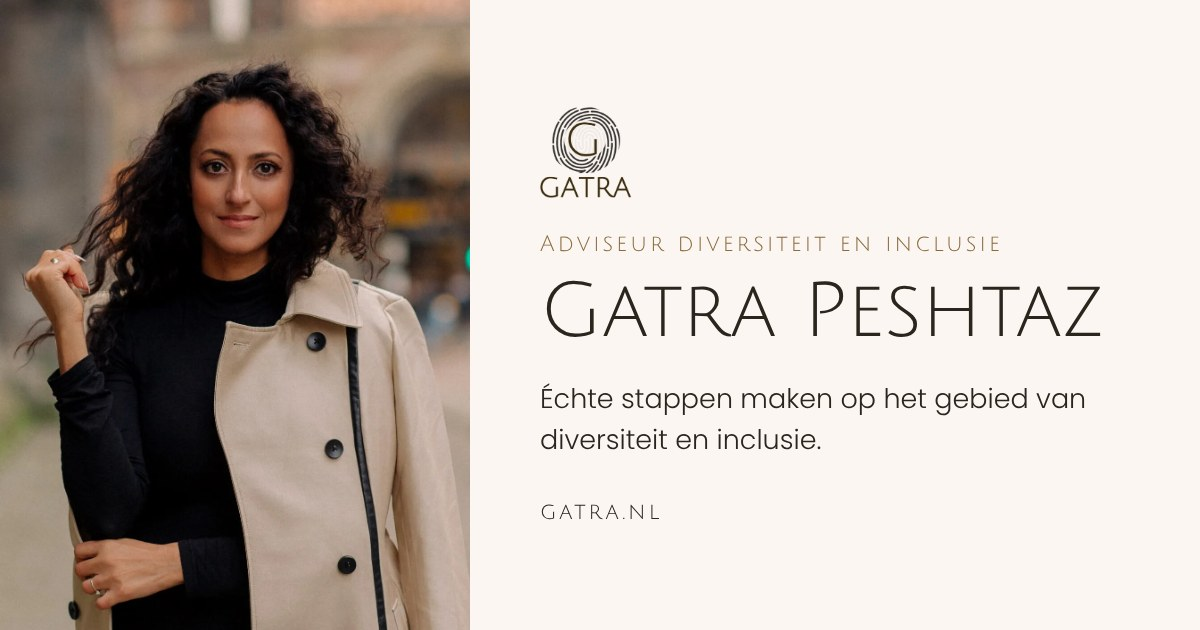
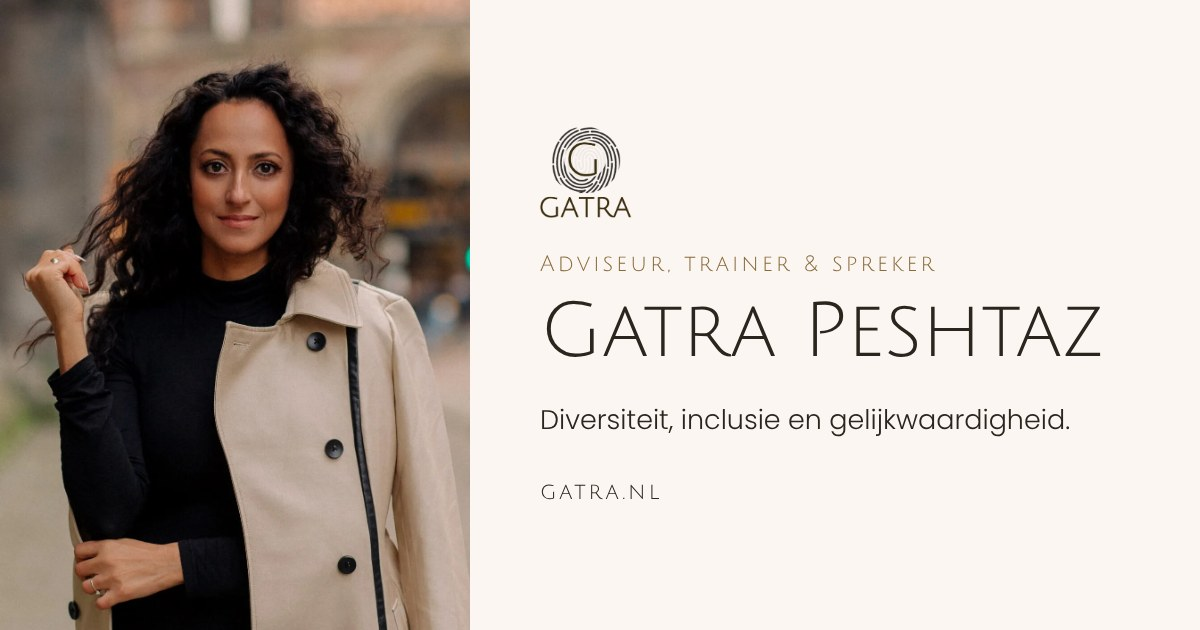
Add the Inclusiemarathon (home, what-I-do, who-I-am), recent roles, and 'adviseur, trainer & spreker'
Facts taken from her LinkedIn profile and inclusiemarathon.nl.

Claude-Session: https://claude.ai/code/session_01A9tkbTXjJYXsNTcmPM6cR5

diff --git a/public/index.html b/public/index.html
@@ -4,20 +4,20 @@
 <meta charset="utf-8">
 <meta name="viewport" content="width=device-width, initial-scale=1">
 <title>Gatra Peshtaz | Adviseur diversiteit en inclusie</title>
-<meta name="description" content="Gatra Peshtaz, adviseur diversiteit en inclusie. Wil jij als organisatie échte stappen maken op het gebied van diversiteit en inclusie?">
+<meta name="description" content="Gatra Peshtaz, adviseur, trainer en spreker op het gebied van diversiteit, inclusie en gelijkwaardigheid. Wil jij als organisatie échte stappen maken op het gebied van diversiteit en inclusie?">
 <link rel="canonical" href="https://gatra.nl/">
 <meta property="og:type" content="website">
 <meta property="og:locale" content="nl_NL">
 <meta property="og:site_name" content="Gatra Peshtaz">
 <meta property="og:title" content="Gatra Peshtaz | Adviseur diversiteit en inclusie">
-<meta property="og:description" content="Gatra Peshtaz, adviseur diversiteit en inclusie. Wil jij als organisatie échte stappen maken op het gebied van diversiteit en inclusie?">
+<meta property="og:description" content="Gatra Peshtaz, adviseur, trainer en spreker op het gebied van diversiteit, inclusie en gelijkwaardigheid. Wil jij als organisatie échte stappen maken op het gebied van diversiteit en inclusie?">
 <meta property="og:url" content="https://gatra.nl/">
 <meta property="og:image" content="https://gatra.nl/img/delen.jpg">
 <meta property="og:image:width" content="1200">
 <meta property="og:image:height" content="630">
-<meta property="og:image:alt" content="Gatra Peshtaz, adviseur diversiteit en inclusie">
+<meta property="og:image:alt" content="Gatra Peshtaz, adviseur, trainer en spreker">
 <meta name="twitter:card" content="summary_large_image">
-<script type="application/ld+json">{"@context":"https://schema.org","@type":"Person","name":"Gatra Peshtaz","jobTitle":"Adviseur diversiteit en inclusie","url":"https://gatra.nl/","image":"https://gatra.nl/img/delen.jpg","email":"info@gatra.nl","telephone":"+31610002278","knowsAbout":["Diversiteit","Inclusie","Antropologie"],"sameAs":["https://www.linkedin.com/in/gatra/"]}</script>
+<script type="application/ld+json">{"@context":"https://schema.org","@type":"Person","name":"Gatra Peshtaz","jobTitle":"Adviseur, trainer en spreker diversiteit, inclusie en gelijkwaardigheid","worksFor":[{"@type":"Organization","name":"Gatra Consultancy"},{"@type":"Organization","name":"Inclusiemarathon Trainingsbureau","url":"https://www.inclusiemarathon.nl/"}],"url":"https://gatra.nl/","image":"https://gatra.nl/img/delen.jpg","email":"info@gatra.nl","telephone":"+31610002278","knowsAbout":["Diversiteit","Inclusie","Gelijkwaardigheid","Antropologie"],"sameAs":["https://www.linkedin.com/in/gatra/"]}</script>
 <link rel="icon" href="/img/favicon.png">
 <link rel="preload" href="/fonts/poppins-300.woff2" as="font" type="font/woff2" crossorigin>
 <link rel="preload" href="/fonts/julius-sans-one.woff2" as="font" type="font/woff2" crossorigin>
@@ -54,7 +54,7 @@
 <section class="hero first">
   <img srcset="/img/hero-400.webp 400w, /img/hero-642.webp 642w" class="hero-img" src="/img/hero.webp" alt="Gatra Peshtaz" width="642" height="586" sizes="(max-width: 800px) 90vw, 44vw" fetchpriority="high">
   <div class="hero-text">
-    <p class="eyebrow">Adviseur diversiteit en inclusie</p>
+    <p class="eyebrow">Adviseur, trainer &amp; spreker</p>
     <h1 class="quote">’Weet jij wat aardappels zijn?’’, vroeg een medewerker in een AZC mij ooit. ‘’Ik kom wel uit Afghanistan, maar ik ben niet achterlijk’’, zei ik toen als twaalfjarig meisje.</h1>
     <p>Nu, 27 jaar later, minder puber, een afgeronde studie antropologie op zak en 12 jaar ervaring als adviseur diversiteit en inclusie, weet ik dat er meerdere perspectieven bestaan. En wat die perspectieven waard zijn.</p>
     <p class="actions"><a class="btn" href="/wat-ik-doe">Wat ik doe</a><a class="btn outline" href="/contact">Neem contact op</a></p>
@@ -90,6 +90,13 @@
     <p>Mijn naam is Gatra Peshtaz. Zeg jij maar gewoon Gatra. Ik ben geboren in Afghanistan en opgegroeid in Rusland. Vlak nadat we met de familie naar Afghanistan terugkeerden, brak daar de oorlog uit. Een paar jaar later vluchtten we naar Nederland. Een land van vrijheid en ongekende mogelijkheden, maar toch vertelden mensen mij dat ik te ambitieus was en mijn dromen te onrealistisch. Wil je weten hoe ik iedereen het tegendeel bewees?</p>
     <a class="btn" href="/wie-ben-ik">Meer over mij</a>
   </div>
+</section>
+<section class="text pale marathon">
+  <p class="eyebrow center">Trainer bij</p>
+  <h2>De inclusiemarathon</h2>
+  <p class="large">Ik ben een van de trainers van het Inclusiemarathon Trainingsbureau. Samen met Zoë Papaikonomou, Kauthar Bouchallikht en vier andere collega’s verzorg ik trainingen, coaching en intervisie op het gebied van diversiteit, inclusie en gelijkwaardigheid.</p>
+  <p class="large">Voor het boek De inclusiemarathon, in 2022 uitgeroepen tot Managementboek van het Jaar, werd ik geïnterviewd. Nu geef ik er zelf de training ‘Van ervaring naar verandering’.</p>
+  <p class="center actions"><a class="btn" href="/wat-ik-doe#inclusiemarathon">Meer over de training</a><a class="btn outline" href="https://www.inclusiemarathon.nl/" target="_blank" rel="noopener">Naar inclusiemarathon.nl</a></p>
 </section>
 <section class="said">
   <h2>Wat anderen zeggen</h2>

diff --git a/public/wie-ben-ik/index.html b/public/wie-ben-ik/index.html
@@ -15,9 +15,9 @@
 <meta property="og:image" content="https://gatra.nl/img/delen.jpg">
 <meta property="og:image:width" content="1200">
 <meta property="og:image:height" content="630">
-<meta property="og:image:alt" content="Gatra Peshtaz, adviseur diversiteit en inclusie">
+<meta property="og:image:alt" content="Gatra Peshtaz, adviseur, trainer en spreker">
 <meta name="twitter:card" content="summary_large_image">
-<script type="application/ld+json">{"@context":"https://schema.org","@type":"Person","name":"Gatra Peshtaz","jobTitle":"Adviseur diversiteit en inclusie","url":"https://gatra.nl/","image":"https://gatra.nl/img/delen.jpg","email":"info@gatra.nl","telephone":"+31610002278","knowsAbout":["Diversiteit","Inclusie","Antropologie"],"sameAs":["https://www.linkedin.com/in/gatra/"]}</script>
+<script type="application/ld+json">{"@context":"https://schema.org","@type":"Person","name":"Gatra Peshtaz","jobTitle":"Adviseur, trainer en spreker diversiteit, inclusie en gelijkwaardigheid","worksFor":[{"@type":"Organization","name":"Gatra Consultancy"},{"@type":"Organization","name":"Inclusiemarathon Trainingsbureau","url":"https://www.inclusiemarathon.nl/"}],"url":"https://gatra.nl/","image":"https://gatra.nl/img/delen.jpg","email":"info@gatra.nl","telephone":"+31610002278","knowsAbout":["Diversiteit","Inclusie","Gelijkwaardigheid","Antropologie"],"sameAs":["https://www.linkedin.com/in/gatra/"]}</script>
 <link rel="icon" href="/img/favicon.png">
 <link rel="preload" href="/fonts/poppins-300.woff2" as="font" type="font/woff2" crossorigin>
 <link rel="preload" href="/fonts/julius-sans-one.woff2" as="font" type="font/woff2" crossorigin>
@@ -63,6 +63,7 @@
   <p class="large">Mijn naam is Gatra Peshtaz. Zeg jij maar gewoon Gatra. Ik ben geboren in Afghanistan en opgegroeid in Rusland. Vlak nadat we met de familie naar Afghanistan terugkeerden, brak daar de oorlog uit. Een paar jaar later vluchtten we naar Nederland. Een land van vrijheid en ongekende mogelijkheden, maar toch vertelden mensen mij dat ik te ambitieus was en mijn dromen te onrealistisch.</p>
   <p class="large">Dankzij mijn geschiedenis heb ik, dwars door de Afghaanse, Russische en Nederlandse cultuur heen, geleerd wat oorlog is, wat vrede is, wat respect is. En hoe die begrippen in verschillende culturen verschillende betekenissen hebben. Ik heb geleerd hoe het voelt om niets te mogen en hoe het voelt om alles te kunnen. Ik heb geleerd hoe belangrijk het is het gevoel te hebben dat je meetelt. Hoe waardevol het is om je in anderen te verdiepen, van perspectief te wisselen en daar wat mee te doen.</p>
   <p class="large">Na mijn studie antropologie besloot ik anderen mee te nemen in mijn missie op weg naar een wereld waarin we naast elkaar kunnen leven en iedereen het gevoel heeft: ik tel mee. Dat doe ik door organisaties te adviseren over diversiteit en inclusie. Dat past niet alleen bij mijn achtergrond, ik heb er ook het karakter voor: ik ben nieuwsgierig, barst van optimisme en ben brutaal genoeg om iedereen die daarvoor openstaat - met humor en een glimlach - een spiegel voor te houden.</p>
+  <p class="large">Dat deed ik de afgelopen jaren onder meer als programmamanager Arbeidsparticipatie bij VluchtelingenWerk Nederland, als strategisch adviseur bij Talent naar de Top en als programmaleider Diversiteit, Inclusie en Gelijkwaardigheid bij NOC*NSF. Nu werk ik als zelfstandig adviseur, trainer en spreker en ben ik een van de trainers van het <a href="/wat-ik-doe#inclusiemarathon">Inclusiemarathon Trainingsbureau</a>.</p>
   <p class="large">Benieuwd wat ik voor je kan <a href="/wat-ik-doe"><strong>doen</strong></a>?</p>
   <p class="center"><a class="btn big" href="/contact">Talk to me.</a></p>
   <p class="h4 center"><em>Kruip in de huid van wie dan ook en je zult zien: waarheid bestaat niet en onze overeenkomsten zijn vele malen groter dan onze verschillen.</em></p>

diff --git a/public/wat-ik-doe/index.html b/public/wat-ik-doe/index.html
@@ -15,9 +15,9 @@
 <meta property="og:image" content="https://gatra.nl/img/delen.jpg">
 <meta property="og:image:width" content="1200">
 <meta property="og:image:height" content="630">
-<meta property="og:image:alt" content="Gatra Peshtaz, adviseur diversiteit en inclusie">
+<meta property="og:image:alt" content="Gatra Peshtaz, adviseur, trainer en spreker">
 <meta name="twitter:card" content="summary_large_image">
-<script type="application/ld+json">{"@context":"https://schema.org","@type":"Person","name":"Gatra Peshtaz","jobTitle":"Adviseur diversiteit en inclusie","url":"https://gatra.nl/","image":"https://gatra.nl/img/delen.jpg","email":"info@gatra.nl","telephone":"+31610002278","knowsAbout":["Diversiteit","Inclusie","Antropologie"],"sameAs":["https://www.linkedin.com/in/gatra/"]}</script>
+<script type="application/ld+json">{"@context":"https://schema.org","@type":"Person","name":"Gatra Peshtaz","jobTitle":"Adviseur, trainer en spreker diversiteit, inclusie en gelijkwaardigheid","worksFor":[{"@type":"Organization","name":"Gatra Consultancy"},{"@type":"Organization","name":"Inclusiemarathon Trainingsbureau","url":"https://www.inclusiemarathon.nl/"}],"url":"https://gatra.nl/","image":"https://gatra.nl/img/delen.jpg","email":"info@gatra.nl","telephone":"+31610002278","knowsAbout":["Diversiteit","Inclusie","Gelijkwaardigheid","Antropologie"],"sameAs":["https://www.linkedin.com/in/gatra/"]}</script>
 <link rel="icon" href="/img/favicon.png">
 <link rel="preload" href="/fonts/poppins-300.woff2" as="font" type="font/woff2" crossorigin>
 <link rel="preload" href="/fonts/julius-sans-one.woff2" as="font" type="font/woff2" crossorigin>
@@ -103,6 +103,18 @@
   </div>
 </div>
   <p class="center"><a class="btn" href="/contact">Samenwerken? Let’s talk.</a></p>
+</section>
+<section class="text marathon" id="inclusiemarathon">
+  <p class="eyebrow center">Trainer bij</p>
+  <h2>De inclusiemarathon</h2>
+  <p class="large">Ik ben een van de trainers van het <a href="https://www.inclusiemarathon.nl/" target="_blank" rel="noopener">Inclusiemarathon Trainingsbureau</a>, dat trainingen, coaching en intervisie verzorgt op het gebied van diversiteit, inclusie en gelijkwaardigheid. Daar geef ik de training <strong>Van ervaring naar verandering</strong>: een interactieve sessie van 1,5 tot 2 uur waarin ervaringsverhalen patronen zichtbaar maken.</p>
+  <ul class="dots large">
+    <li>Micro-agressies en dubbele boodschappen zichtbaar maken</li>
+    <li>Tokenisme en de ‘enige-positie’ begrijpen</li>
+    <li>Systemische interventies toepassen, geen individuele schuld</li>
+  </ul>
+  <p class="large">Voor leidinggevenden, HR-professionals, vertrouwenspersonen en teams die werken aan sociale veiligheid.</p>
+  <p class="center"><a class="btn outline" href="https://www.inclusiemarathon.nl/trainingen" target="_blank" rel="noopener">Bekijk de trainingen op inclusiemarathon.nl</a></p>
 </section>
 <section class="band wide last"><p class="h4">Integratie gaat veel verder dan economische onafhankelijkheid.<br>Integratie gaat ook, of misschien wel vooral, over onderling respect en het gevoel dat je mee mag doen.<br>Op je eigen manier.</p></section>
 </main>

diff --git a/src/pages/index.html b/src/pages/index.html
@@ -1,8 +1,8 @@
-<!-- {"title":"Gatra Peshtaz | Adviseur diversiteit en inclusie","description":"Gatra Peshtaz, adviseur diversiteit en inclusie. Wil jij als organisatie échte stappen maken op het gebied van diversiteit en inclusie?"} -->
+<!-- {"title":"Gatra Peshtaz | Adviseur diversiteit en inclusie","description":"Gatra Peshtaz, adviseur, trainer en spreker op het gebied van diversiteit, inclusie en gelijkwaardigheid. Wil jij als organisatie échte stappen maken op het gebied van diversiteit en inclusie?"} -->
 <section class="hero first">
   <img class="hero-img" src="/img/hero.webp" alt="Gatra Peshtaz" width="642" height="586" sizes="(max-width: 800px) 90vw, 44vw" fetchpriority="high">
   <div class="hero-text">
-    <p class="eyebrow">Adviseur diversiteit en inclusie</p>
+    <p class="eyebrow">Adviseur, trainer &amp; spreker</p>
     <h1 class="quote">’Weet jij wat aardappels zijn?’’, vroeg een medewerker in een AZC mij ooit. ‘’Ik kom wel uit Afghanistan, maar ik ben niet achterlijk’’, zei ik toen als twaalfjarig meisje.</h1>
     <p>Nu, 27 jaar later, minder puber, een afgeronde studie antropologie op zak en 12 jaar ervaring als adviseur diversiteit en inclusie, weet ik dat er meerdere perspectieven bestaan. En wat die perspectieven waard zijn.</p>
     <p class="actions"><a class="btn" href="/wat-ik-doe">Wat ik doe</a><a class="btn outline" href="/contact">Neem contact op</a></p>
@@ -38,6 +38,13 @@
     <p>Mijn naam is Gatra Peshtaz. Zeg jij maar gewoon Gatra. Ik ben geboren in Afghanistan en opgegroeid in Rusland. Vlak nadat we met de familie naar Afghanistan terugkeerden, brak daar de oorlog uit. Een paar jaar later vluchtten we naar Nederland. Een land van vrijheid en ongekende mogelijkheden, maar toch vertelden mensen mij dat ik te ambitieus was en mijn dromen te onrealistisch. Wil je weten hoe ik iedereen het tegendeel bewees?</p>
     <a class="btn" href="/wie-ben-ik">Meer over mij</a>
   </div>
+</section>
+<section class="text pale marathon">
+  <p class="eyebrow center">Trainer bij</p>
+  <h2>De inclusiemarathon</h2>
+  <p class="large">Ik ben een van de trainers van het Inclusiemarathon Trainingsbureau. Samen met Zoë Papaikonomou, Kauthar Bouchallikht en vier andere collega’s verzorg ik trainingen, coaching en intervisie op het gebied van diversiteit, inclusie en gelijkwaardigheid.</p>
+  <p class="large">Voor het boek De inclusiemarathon, in 2022 uitgeroepen tot Managementboek van het Jaar, werd ik geïnterviewd. Nu geef ik er zelf de training ‘Van ervaring naar verandering’.</p>
+  <p class="center actions"><a class="btn" href="/wat-ik-doe#inclusiemarathon">Meer over de training</a><a class="btn outline" href="https://www.inclusiemarathon.nl/" target="_blank" rel="noopener">Naar inclusiemarathon.nl</a></p>
 </section>
 <section class="said">
   <h2>Wat anderen zeggen</h2>

diff --git a/src/pages/wie-ben-ik.html b/src/pages/wie-ben-ik.html
@@ -11,6 +11,7 @@
   <p class="large">Mijn naam is Gatra Peshtaz. Zeg jij maar gewoon Gatra. Ik ben geboren in Afghanistan en opgegroeid in Rusland. Vlak nadat we met de familie naar Afghanistan terugkeerden, brak daar de oorlog uit. Een paar jaar later vluchtten we naar Nederland. Een land van vrijheid en ongekende mogelijkheden, maar toch vertelden mensen mij dat ik te ambitieus was en mijn dromen te onrealistisch.</p>
   <p class="large">Dankzij mijn geschiedenis heb ik, dwars door de Afghaanse, Russische en Nederlandse cultuur heen, geleerd wat oorlog is, wat vrede is, wat respect is. En hoe die begrippen in verschillende culturen verschillende betekenissen hebben. Ik heb geleerd hoe het voelt om niets te mogen en hoe het voelt om alles te kunnen. Ik heb geleerd hoe belangrijk het is het gevoel te hebben dat je meetelt. Hoe waardevol het is om je in anderen te verdiepen, van perspectief te wisselen en daar wat mee te doen.</p>
   <p class="large">Na mijn studie antropologie besloot ik anderen mee te nemen in mijn missie op weg naar een wereld waarin we naast elkaar kunnen leven en iedereen het gevoel heeft: ik tel mee. Dat doe ik door organisaties te adviseren over diversiteit en inclusie. Dat past niet alleen bij mijn achtergrond, ik heb er ook het karakter voor: ik ben nieuwsgierig, barst van optimisme en ben brutaal genoeg om iedereen die daarvoor openstaat - met humor en een glimlach - een spiegel voor te houden.</p>
+  <p class="large">Dat deed ik de afgelopen jaren onder meer als programmamanager Arbeidsparticipatie bij VluchtelingenWerk Nederland, als strategisch adviseur bij Talent naar de Top en als programmaleider Diversiteit, Inclusie en Gelijkwaardigheid bij NOC*NSF. Nu werk ik als zelfstandig adviseur, trainer en spreker en ben ik een van de trainers van het <a href="/wat-ik-doe#inclusiemarathon">Inclusiemarathon Trainingsbureau</a>.</p>
   <p class="large">Benieuwd wat ik voor je kan <a href="/wat-ik-doe"><strong>doen</strong></a>?</p>
   <p class="center"><a class="btn big" href="/contact">Talk to me.</a></p>
   <p class="h4 center"><em>Kruip in de huid van wie dan ook en je zult zien: waarheid bestaat niet en onze overeenkomsten zijn vele malen groter dan onze verschillen.</em></p>

diff --git a/public/contact/index.html b/public/contact/index.html
@@ -15,9 +15,9 @@
 <meta property="og:image" content="https://gatra.nl/img/delen.jpg">
 <meta property="og:image:width" content="1200">
 <meta property="og:image:height" content="630">
-<meta property="og:image:alt" content="Gatra Peshtaz, adviseur diversiteit en inclusie">
+<meta property="og:image:alt" content="Gatra Peshtaz, adviseur, trainer en spreker">
 <meta name="twitter:card" content="summary_large_image">
-<script type="application/ld+json">{"@context":"https://schema.org","@type":"Person","name":"Gatra Peshtaz","jobTitle":"Adviseur diversiteit en inclusie","url":"https://gatra.nl/","image":"https://gatra.nl/img/delen.jpg","email":"info@gatra.nl","telephone":"+31610002278","knowsAbout":["Diversiteit","Inclusie","Antropologie"],"sameAs":["https://www.linkedin.com/in/gatra/"]}</script>
+<script type="application/ld+json">{"@context":"https://schema.org","@type":"Person","name":"Gatra Peshtaz","jobTitle":"Adviseur, trainer en spreker diversiteit, inclusie en gelijkwaardigheid","worksFor":[{"@type":"Organization","name":"Gatra Consultancy"},{"@type":"Organization","name":"Inclusiemarathon Trainingsbureau","url":"https://www.inclusiemarathon.nl/"}],"url":"https://gatra.nl/","image":"https://gatra.nl/img/delen.jpg","email":"info@gatra.nl","telephone":"+31610002278","knowsAbout":["Diversiteit","Inclusie","Gelijkwaardigheid","Antropologie"],"sameAs":["https://www.linkedin.com/in/gatra/"]}</script>
 <link rel="icon" href="/img/favicon.png">
 <link rel="preload" href="/fonts/poppins-300.woff2" as="font" type="font/woff2" crossorigin>
 <link rel="preload" href="/fonts/julius-sans-one.woff2" as="font" type="font/woff2" crossorigin>

diff --git a/public/het-inclusieve-spelalfabet/index.html b/public/het-inclusieve-spelalfabet/index.html
@@ -15,9 +15,9 @@
 <meta property="og:image" content="https://gatra.nl/img/delen.jpg">
 <meta property="og:image:width" content="1200">
 <meta property="og:image:height" content="630">
-<meta property="og:image:alt" content="Gatra Peshtaz, adviseur diversiteit en inclusie">
+<meta property="og:image:alt" content="Gatra Peshtaz, adviseur, trainer en spreker">
 <meta name="twitter:card" content="summary_large_image">
-<script type="application/ld+json">{"@context":"https://schema.org","@type":"Person","name":"Gatra Peshtaz","jobTitle":"Adviseur diversiteit en inclusie","url":"https://gatra.nl/","image":"https://gatra.nl/img/delen.jpg","email":"info@gatra.nl","telephone":"+31610002278","knowsAbout":["Diversiteit","Inclusie","Antropologie"],"sameAs":["https://www.linkedin.com/in/gatra/"]}</script>
+<script type="application/ld+json">{"@context":"https://schema.org","@type":"Person","name":"Gatra Peshtaz","jobTitle":"Adviseur, trainer en spreker diversiteit, inclusie en gelijkwaardigheid","worksFor":[{"@type":"Organization","name":"Gatra Consultancy"},{"@type":"Organization","name":"Inclusiemarathon Trainingsbureau","url":"https://www.inclusiemarathon.nl/"}],"url":"https://gatra.nl/","image":"https://gatra.nl/img/delen.jpg","email":"info@gatra.nl","telephone":"+31610002278","knowsAbout":["Diversiteit","Inclusie","Gelijkwaardigheid","Antropologie"],"sameAs":["https://www.linkedin.com/in/gatra/"]}</script>
 <link rel="icon" href="/img/favicon.png">
 <link rel="preload" href="/fonts/poppins-300.woff2" as="font" type="font/woff2" crossorigin>
 <link rel="preload" href="/fonts/julius-sans-one.woff2" as="font" type="font/woff2" crossorigin>

diff --git a/src/layout.html b/src/layout.html
@@ -15,9 +15,9 @@
 <meta property="og:image" content="{{site}}/img/delen.jpg">
 <meta property="og:image:width" content="1200">
 <meta property="og:image:height" content="630">
-<meta property="og:image:alt" content="Gatra Peshtaz, adviseur diversiteit en inclusie">
+<meta property="og:image:alt" content="Gatra Peshtaz, adviseur, trainer en spreker">
 <meta name="twitter:card" content="summary_large_image">
-<script type="application/ld+json">{"@context":"https://schema.org","@type":"Person","name":"Gatra Peshtaz","jobTitle":"Adviseur diversiteit en inclusie","url":"{{site}}/","image":"{{site}}/img/delen.jpg","email":"info@gatra.nl","telephone":"+31610002278","knowsAbout":["Diversiteit","Inclusie","Antropologie"],"sameAs":["https://www.linkedin.com/in/gatra/"]}</script>
+<script type="application/ld+json">{"@context":"https://schema.org","@type":"Person","name":"Gatra Peshtaz","jobTitle":"Adviseur, trainer en spreker diversiteit, inclusie en gelijkwaardigheid","worksFor":[{"@type":"Organization","name":"Gatra Consultancy"},{"@type":"Organization","name":"Inclusiemarathon Trainingsbureau","url":"https://www.inclusiemarathon.nl/"}],"url":"{{site}}/","image":"{{site}}/img/delen.jpg","email":"info@gatra.nl","telephone":"+31610002278","knowsAbout":["Diversiteit","Inclusie","Gelijkwaardigheid","Antropologie"],"sameAs":["https://www.linkedin.com/in/gatra/"]}</script>
 <link rel="icon" href="/img/favicon.png">
 <link rel="preload" href="/fonts/poppins-300.woff2" as="font" type="font/woff2" crossorigin>
 <link rel="preload" href="/fonts/julius-sans-one.woff2" as="font" type="font/woff2" crossorigin>

diff --git a/src/pages/wat-ik-doe.html b/src/pages/wat-ik-doe.html
@@ -42,4 +42,16 @@
   {{> reviews}}
   <p class="center"><a class="btn" href="/contact">Samenwerken? Let’s talk.</a></p>
 </section>
+<section class="text marathon" id="inclusiemarathon">
+  <p class="eyebrow center">Trainer bij</p>
+  <h2>De inclusiemarathon</h2>
+  <p class="large">Ik ben een van de trainers van het <a href="https://www.inclusiemarathon.nl/" target="_blank" rel="noopener">Inclusiemarathon Trainingsbureau</a>, dat trainingen, coaching en intervisie verzorgt op het gebied van diversiteit, inclusie en gelijkwaardigheid. Daar geef ik de training <strong>Van ervaring naar verandering</strong>: een interactieve sessie van 1,5 tot 2 uur waarin ervaringsverhalen patronen zichtbaar maken.</p>
+  <ul class="dots large">
+    <li>Micro-agressies en dubbele boodschappen zichtbaar maken</li>
+    <li>Tokenisme en de ‘enige-positie’ begrijpen</li>
+    <li>Systemische interventies toepassen, geen individuele schuld</li>
+  </ul>
+  <p class="large">Voor leidinggevenden, HR-professionals, vertrouwenspersonen en teams die werken aan sociale veiligheid.</p>
+  <p class="center"><a class="btn outline" href="https://www.inclusiemarathon.nl/trainingen" target="_blank" rel="noopener">Bekijk de trainingen op inclusiemarathon.nl</a></p>
+</section>
 <section class="band wide last"><p class="h4">Integratie gaat veel verder dan economische onafhankelijkheid.<br>Integratie gaat ook, of misschien wel vooral, over onderling respect en het gevoel dat je mee mag doen.<br>Op je eigen manier.</p></section>

diff --git a/public/site.css b/public/site.css
@@ -61,6 +61,9 @@ main > section { position: relative; }
 .hero-text .quote { font: 300 clamp(22px, 18px + 1.05vw, 31px)/1.42 Poppins, sans-serif; text-align: left; margin-bottom: 22px; }
 .actions { display: flex; flex-wrap: wrap; gap: 12px; margin-top: 28px; }
 .actions .btn { margin-top: 0; }
+.actions.center { justify-content: center; }
+.marathon .eyebrow { margin-bottom: 8px; }
+.text.marathon { padding-bottom: var(--space); }
 
 /* Organisations she worked with and for: names only, in one quiet row. */
 .names { padding: 0 var(--gutter) var(--space); text-align: center; max-width: 1300px; margin: 0 auto; }
